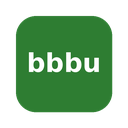
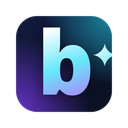
bbbu: ícone novo e cores no tom das artes

diff --git a/bbbu/index.html b/bbbu/index.html
@@ -7,26 +7,26 @@
     <meta name="description" content="Extensão gratuita para navegador com melhorias para o Blackboard Ultra do Senac, cada uma com seu botão de ligar e desligar.">
     <link rel="icon" type="image/png" href="icone-32.png">
     <style>
-        :root { color-scheme: light dark; --fundo: #f7f8fa; --texto: #1f2933; --suave: #5f6b7a; --cartao: #fff; --borda: #e3e7ec; }
-        @media (prefers-color-scheme: dark) { :root { --fundo: #11161d; --texto: #e6e9ee; --suave: #9aa5b4; --cartao: #1a212b; --borda: #2a3340; } }
+        :root { color-scheme: light dark; --fundo: #f7f8fa; --texto: #1f2933; --suave: #5f6b7a; --cartao: #fff; --borda: #e3e7ec; --destaque: #6d28d9; --link: #6d28d9; }
+        @media (prefers-color-scheme: dark) { :root { --fundo: #11161d; --texto: #e6e9ee; --suave: #9aa5b4; --cartao: #1a212b; --borda: #2a3340; --link: #a78bfa; } }
         body { margin: 0; background: var(--fundo); color: var(--texto); font: 17px/1.6 system-ui, -apple-system, "Segoe UI", sans-serif; }
         main { max-width: 720px; margin: 40px auto; padding: 32px 36px; background: var(--cartao); border: 1px solid var(--borda); border-radius: 12px; }
         h1 { font-size: 1.6rem; margin: 0 0 4px; }
         h2 { font-size: 1.15rem; margin: 28px 0 6px; }
         .data { color: var(--suave); margin: 0 0 20px; font-size: .95rem; }
-        a { color: #2e7d32; }
+        a { color: var(--link); }
         .topo { display: flex; gap: 18px; align-items: center; margin-bottom: 16px; }
         .topo .data { margin: 0; }
         .melhorias { padding-left: 1.2em; }
         .melhorias li { margin-bottom: 8px; }
         .versoes dt { font-weight: 600; }
         .versoes dd { margin: 0 0 12px; }
-        .loja { display: inline-block; padding: 8px 18px; border-radius: 8px; background: #2e7d32; color: #fff; text-decoration: none; font-weight: 600; }
+        .loja { display: inline-block; padding: 8px 18px; border-radius: 8px; background: linear-gradient(90deg, #7c3aed, #2563eb); color: #fff; text-decoration: none; font-weight: 600; }
         .pix { display: flex; gap: 24px; align-items: center; flex-wrap: wrap; }
         .pix img { background: #fff; padding: 8px; border-radius: 8px; border: 1px solid var(--borda); }
         .pix div { flex: 1; min-width: 220px; }
         .pix p { margin: 0 0 8px; }
-        .pix button { font: inherit; padding: 6px 14px; border-radius: 8px; border: 1px solid #2e7d32; background: #2e7d32; color: #fff; cursor: pointer; }
+        .pix button { font: inherit; padding: 6px 14px; border-radius: 8px; border: 1px solid var(--destaque); background: var(--destaque); color: #fff; cursor: pointer; }
         @media (max-width: 760px) { main { margin: 0; border-radius: 0; border: 0; padding: 24px 20px; } }
     </style>
 </head>
@@ -78,8 +78,8 @@
     <dl class="versoes">
         <dt>1.3 · novembro de 2026 (chega à loja em breve)</dt>
         <dd>Layout moderno com tema claro e escuro, artes das UCs nas turmas de Desenvolvimento de Sistemas,
-        destaque "UC · Turma" nos cartões, menu para ordenar as turmas por data e modo escuro para o visual
-        original.</dd>
+        destaque "UC · Turma" nos cartões, menu para ordenar as turmas por data, modo escuro para o visual
+        original e ícone novo.</dd>
         <dt>1.2 · 3 de novembro de 2026</dt>
         <dd>Primeira versão pública, com as melhorias "Abrir turma em nova aba" e "Ocultar bandeirinha de alertas".</dd>
     </dl>

diff --git a/bbbu/privacidade/index.html b/bbbu/privacidade/index.html
@@ -5,20 +5,21 @@
     <meta name="viewport" content="width=device-width, initial-scale=1.0">
     <title>bbbu - Política de privacidade | Professor Vine</title>
     <meta name="description" content="Política de privacidade da extensão bbbu - Better Blackboard Ultra.">
+    <link rel="icon" type="image/png" href="../icone-32.png">
     <style>
-        :root { color-scheme: light dark; --fundo: #f7f8fa; --texto: #1f2933; --suave: #5f6b7a; --cartao: #fff; --borda: #e3e7ec; }
-        @media (prefers-color-scheme: dark) { :root { --fundo: #11161d; --texto: #e6e9ee; --suave: #9aa5b4; --cartao: #1a212b; --borda: #2a3340; } }
+        :root { color-scheme: light dark; --fundo: #f7f8fa; --texto: #1f2933; --suave: #5f6b7a; --cartao: #fff; --borda: #e3e7ec; --destaque: #6d28d9; --link: #6d28d9; }
+        @media (prefers-color-scheme: dark) { :root { --fundo: #11161d; --texto: #e6e9ee; --suave: #9aa5b4; --cartao: #1a212b; --borda: #2a3340; --link: #a78bfa; } }
         body { margin: 0; background: var(--fundo); color: var(--texto); font: 17px/1.6 system-ui, -apple-system, "Segoe UI", sans-serif; }
         main { max-width: 720px; margin: 40px auto; padding: 32px 36px; background: var(--cartao); border: 1px solid var(--borda); border-radius: 12px; }
         h1 { font-size: 1.6rem; margin: 0 0 4px; }
         h2 { font-size: 1.15rem; margin: 28px 0 6px; }
         .data { color: var(--suave); margin: 0 0 20px; font-size: .95rem; }
-        a { color: #2e7d32; }
+        a { color: var(--link); }
         .pix { display: flex; gap: 24px; align-items: center; flex-wrap: wrap; }
         .pix img { background: #fff; padding: 8px; border-radius: 8px; border: 1px solid var(--borda); }
         .pix div { flex: 1; min-width: 220px; }
         .pix p { margin: 0 0 8px; }
-        .pix button { font: inherit; padding: 6px 14px; border-radius: 8px; border: 1px solid #2e7d32; background: #2e7d32; color: #fff; cursor: pointer; }
+        .pix button { font: inherit; padding: 6px 14px; border-radius: 8px; border: 1px solid var(--destaque); background: var(--destaque); color: #fff; cursor: pointer; }
         @media (max-width: 760px) { main { margin: 0; border-radius: 0; border: 0; padding: 24px 20px; } }
     </style>
 </head>
